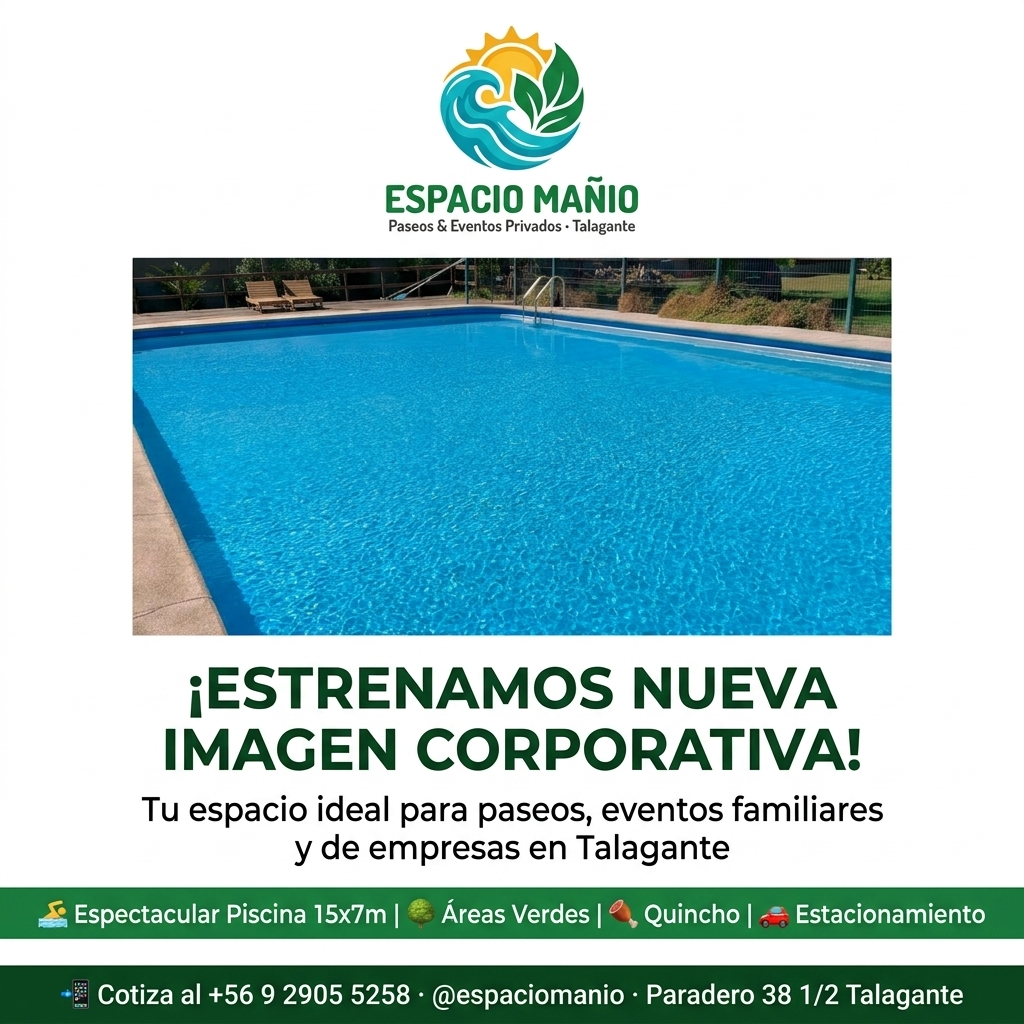
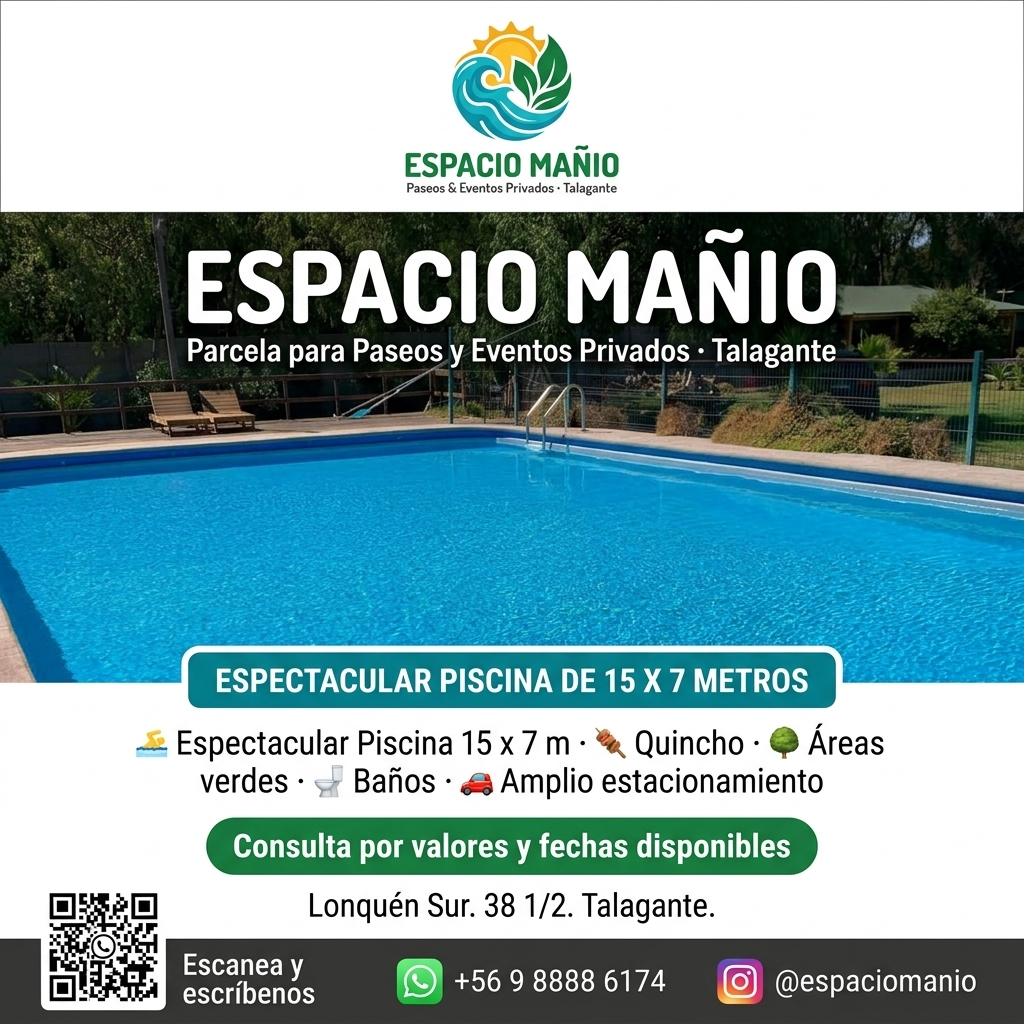
fix(flyer): mantener subtitulo de paseo y eventos, agregar icono de parrilla para quincho y numero +56 9 8888 6174

diff --git a/05-Flyers/afiche_espacio_manio_profesional.html b/05-Flyers/afiche_espacio_manio_profesional.html
@@ -18,10 +18,10 @@
       padding: 20px;
     }
 
-    /* Canvas 600x680 px (Formato 1:1 Cuadrado / Retrato de Alta Definición) */
+    /* Canvas 600x690 px (Formato 1:1 Cuadrado / Retrato de Alta Definición) */
     .flyer {
       width: 600px;
-      height: 680px;
+      height: 690px;
       background: #ffffff;
       position: relative;
       overflow: hidden;
@@ -51,7 +51,7 @@
     /* SECCIÓN SUPERIOR: HERO PISCINA REAL 15X7M */
     .hero-section {
       position: relative;
-      height: 230px;
+      height: 235px;
       background: url('fotos_reales/piscina_15x7.jpg') center/cover no-repeat;
       display: flex;
       flex-direction: column;
@@ -64,7 +64,7 @@
     .hero-overlay {
       position: absolute;
       inset: 0;
-      background: linear-gradient(180deg, rgba(6, 20, 38, 0.65) 0%, rgba(6, 20, 38, 0.25) 50%, rgba(6, 20, 38, 0.75) 100%);
+      background: linear-gradient(180deg, rgba(6, 20, 38, 0.68) 0%, rgba(6, 20, 38, 0.28) 50%, rgba(6, 20, 38, 0.78) 100%);
       z-index: 1;
     }
 
@@ -79,7 +79,7 @@
     .hero-title {
       font-family: 'Outfit', sans-serif;
       color: #ffffff;
-      font-size: 2.6rem;
+      font-size: 2.7rem;
       font-weight: 900;
       letter-spacing: 2px;
       text-transform: uppercase;
@@ -88,10 +88,11 @@
       text-shadow: 0 4px 16px rgba(0,0,0,0.9);
     }
 
+    /* SUBTÍTULO OBLIGATORIO DEBAJO DE ESPACIO MAÑIO */
     .hero-subtitle {
-      color: #f1f5f9;
+      color: #ffffff;
       font-family: 'Outfit', sans-serif;
-      font-size: 0.8rem;
+      font-size: 0.85rem;
       font-weight: 700;
       letter-spacing: 1.5px;
       text-transform: uppercase;
@@ -156,7 +157,7 @@
       border-radius: 4px;
     }
 
-    /* SERVICIOS DETALLADOS EN LÍNEA LIMPIA */
+    /* SERVICIOS DETALLADOS CON ÍCONO DE PARRILLA 🍢 ANTES DE QUINCHO */
     .services-line {
       text-align: center;
       color: #0f172a;
@@ -183,7 +184,7 @@
       margin: 2px 0;
     }
 
-    /* DIRECCIÓN EXACTA CON FORMATO SOLICITADO */
+    /* DIRECCIÓN EXACTA */
     .address-text {
       text-align: center;
       color: #0f172a;
@@ -191,7 +192,7 @@
       font-weight: 800;
     }
 
-    /* PIE DE CONTACTO CON LOGOS OFICIALES */
+    /* PIE DE CONTACTO CON LOGOS OFICIALES DE WHATSAPP E INSTAGRAM Y TELÉFONO CORREGIDO +56 9 8888 6174 */
     .footer-bar {
       background: #071426;
       padding: 8px 16px;
@@ -263,7 +264,8 @@
       <div class="hero-overlay"></div>
       <div class="hero-content">
         <h1 class="hero-title">ESPACIO MAÑIO</h1>
-        <p class="hero-subtitle">Parcela para Paseos y Eventos Privados</p>
+        <!-- SUBTÍTULO PERMANENTE OBLIGATORIO -->
+        <p class="hero-subtitle">Parcela para Paseos y Eventos Privados · Talagante</p>
         <div class="location-pill">Talagante · Región Metropolitana</div>
       </div>
       <div class="pool-badge">ESPECTACULAR PISCINA DE 15 X 7 METROS</div>
@@ -276,9 +278,9 @@
         <div class="green-photo-tag">🌳 Amplias áreas verdes & entorno natural de descanso</div>
       </div>
 
-      <!-- Texto de Servicios Exacto -->
+      <!-- Texto de Servicios con Ícono de Parrilla 🍢 ANTES de Quincho -->
       <div class="services-line">
-        Espectacular Piscina 15 x 7 m · Quincho · Áreas verdes · Baños · Amplio estacionamiento
+        🏊 Espectacular Piscina 15 x 7 m · 🍢 Quincho · 🌳 Áreas verdes · 🚽 Baños · 🚗 Amplio estacionamiento
       </div>
 
       <!-- Botón Verde CTA Exacto -->
@@ -292,7 +294,7 @@
       </div>
     </div>
 
-    <!-- PIE DE CONTACTO -->
+    <!-- PIE DE CONTACTO CON LOGOS OFICIALES DE WHATSAPP E INSTAGRAM Y TELÉFONO +56 9 8888 6174 -->
     <div class="footer-bar">
       <div class="qr-block">
         <div class="qr-box">
@@ -307,14 +309,16 @@
       </div>
 
       <div class="contact-block">
+        <!-- Logo Oficial de WhatsApp + Número +56 9 8888 6174 -->
         <div class="phone-row">
-          <svg width="20" height="20" viewBox="0 0 24 24" fill="#25D366">
+          <svg width="22" height="22" viewBox="0 0 24 24" fill="#25D366">
             <path d="M.057 24l1.687-6.163c-1.041-1.804-1.588-3.849-1.587-5.946.003-6.556 5.338-11.891 11.893-11.891 3.181.001 6.167 1.24 8.413 3.488 2.245 2.248 3.481 5.236 3.48 8.414-.003 6.557-5.338 11.892-11.893 11.892-1.99-.001-3.951-.5-5.688-1.448l-6.305 1.654zm6.597-3.807c1.676.995 3.276 1.591 5.392 1.592 5.448 0 9.886-4.434 9.889-9.885.002-5.462-4.415-9.89-9.881-9.892-5.452 0-9.887 4.434-9.889 9.884-.001 2.225.651 3.891 1.746 5.634l-.999 3.648 3.742-.981zm11.387-5.464c-.285-.143-1.687-.833-1.947-.928-.26-.095-.449-.143-.639.143-.19.286-.736.928-.903 1.119-.166.19-.332.214-.618.071-.285-.143-1.205-.444-2.296-1.416-.848-.755-1.42-1.688-1.587-1.974-.167-.286-.018-.44.125-.583.129-.129.285-.333.428-.5.143-.166.19-.286.285-.476.095-.19.047-.357-.024-.5-.071-.143-.639-1.547-.875-2.118-.23-.553-.464-.479-.639-.487-.166-.008-.356-.01-.546-.01s-.5.071-.76.357c-.26.286-.998.976-.998 2.38 0 1.404 1.022 2.76 1.165 2.951.143.19 2.013 3.074 4.877 4.31.682.294 1.214.47 1.63.603.684.217 1.307.186 1.798.113.548-.082 1.687-.69 1.925-1.356.238-.666.238-1.237.166-1.356-.07-.119-.26-.19-.545-.333z"/>
           </svg>
-          <span class="phone-number">+56 9 2905 5258</span>
+          <span class="phone-number">+56 9 8888 6174</span>
         </div>
+        <!-- Logo Oficial de Instagram + @espaciomanio -->
         <div class="instagram-row">
-          <svg width="16" height="16" viewBox="0 0 24 24" fill="#e1306c">
+          <svg width="18" height="18" viewBox="0 0 24 24" fill="#e1306c">
             <path d="M12 2.163c3.204 0 3.584.012 4.85.07 3.252.148 4.771 1.691 4.919 4.919.058 1.265.069 1.645.069 4.849 0 3.205-.012 3.584-.069 4.849-.149 3.225-1.664 4.771-4.919 4.919-1.266.058-1.644.07-4.85.07-3.204 0-3.584-.012-4.849-.07-3.26-.149-4.771-1.699-4.919-4.92-.058-1.265-.07-1.644-.07-4.849 0-3.204.013-3.583.07-4.849.149-3.227 1.664-4.771 4.919-4.919 1.266-.057 1.645-.069 4.849-.069zm0-2.163c-3.259 0-3.667.014-4.947.072-4.358.2-6.78 2.618-6.98 6.98-.059 1.281-.073 1.689-.073 4.948 0 3.259.014 3.668.072 4.948.2 4.358 2.618 6.78 6.98 6.98 1.281.058 1.689.072 4.948.072 3.259 0 3.668-.014 4.948-.072 4.354-.2 6.782-2.618 6.979-6.98.059-1.28.073-1.689.073-4.948 0-3.259-.014-3.667-.072-4.947-.196-4.354-2.617-6.78-6.979-6.98-1.281-.059-1.69-.073-4.949-.073zm0 5.838c-3.403 0-6.162 2.759-6.162 6.162s2.759 6.163 6.162 6.163 6.162-2.759 6.162-6.163c0-3.403-2.759-6.162-6.162-6.162zm0 10.162c-2.209 0-4-1.79-4-4 0-2.209 1.791-4 4-4s4 1.791 4 4c0 2.21-1.791 4-4 4zm6.406-11.845c-.796 0-1.441.645-1.441 1.44s.645 1.44 1.441 1.44c.795 0 1.439-.645 1.439-1.44s-.644-1.44-1.439-1.44z"/>
           </svg>
           <span class="instagram-tag">@espaciomanio</span>
